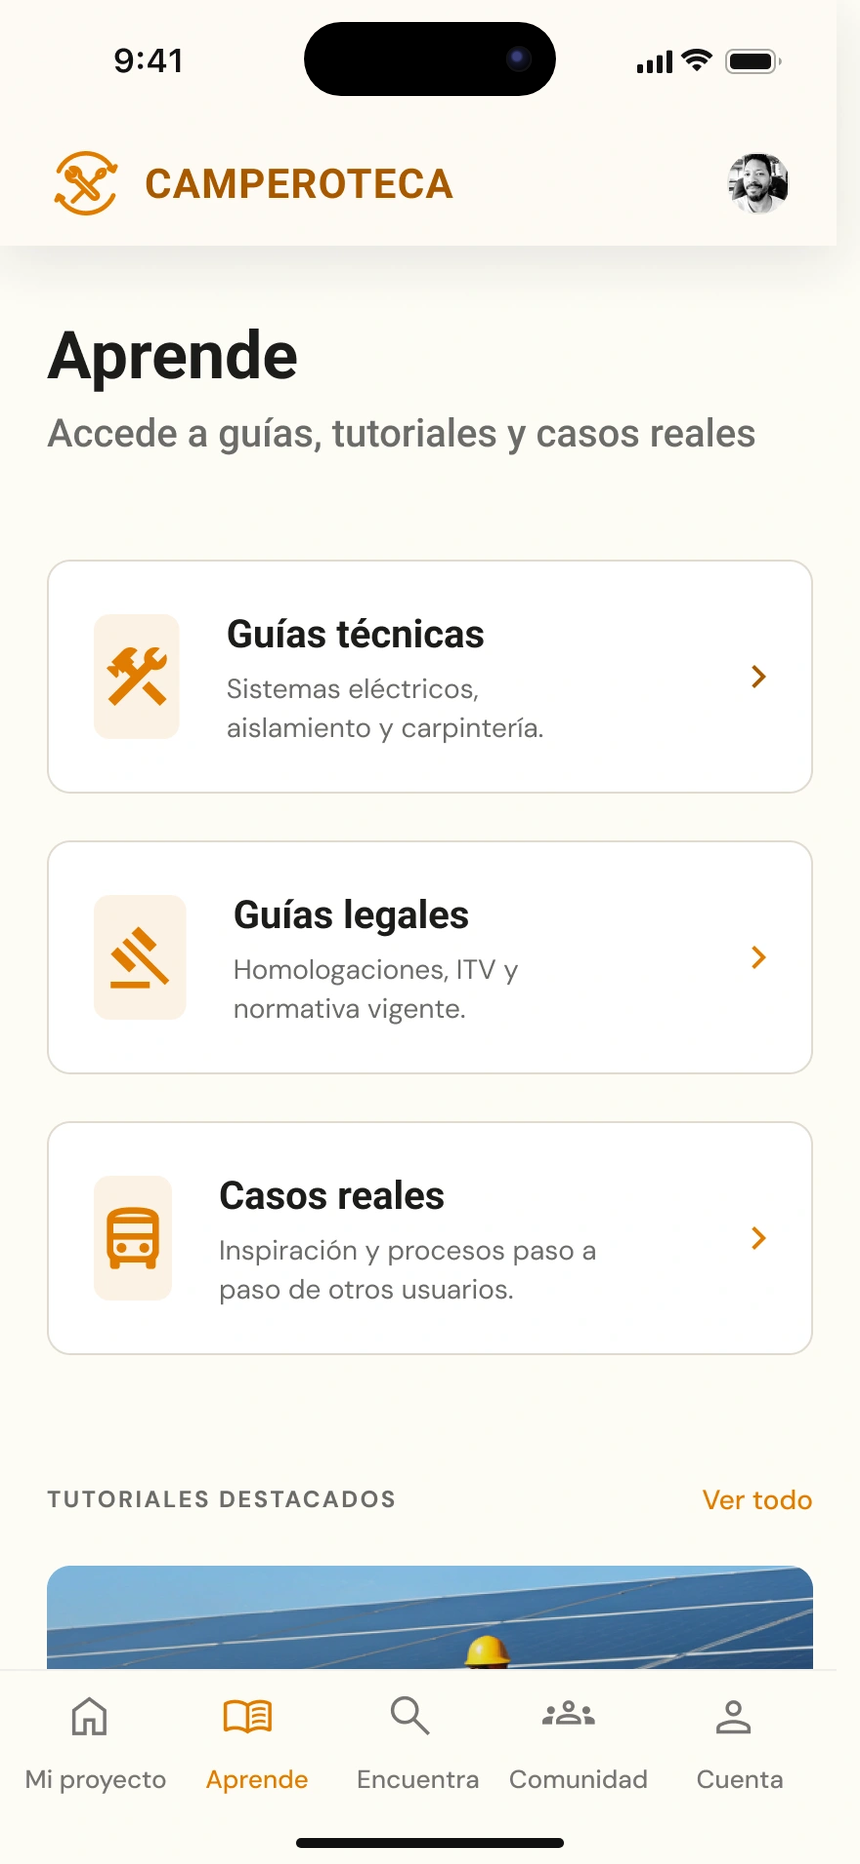
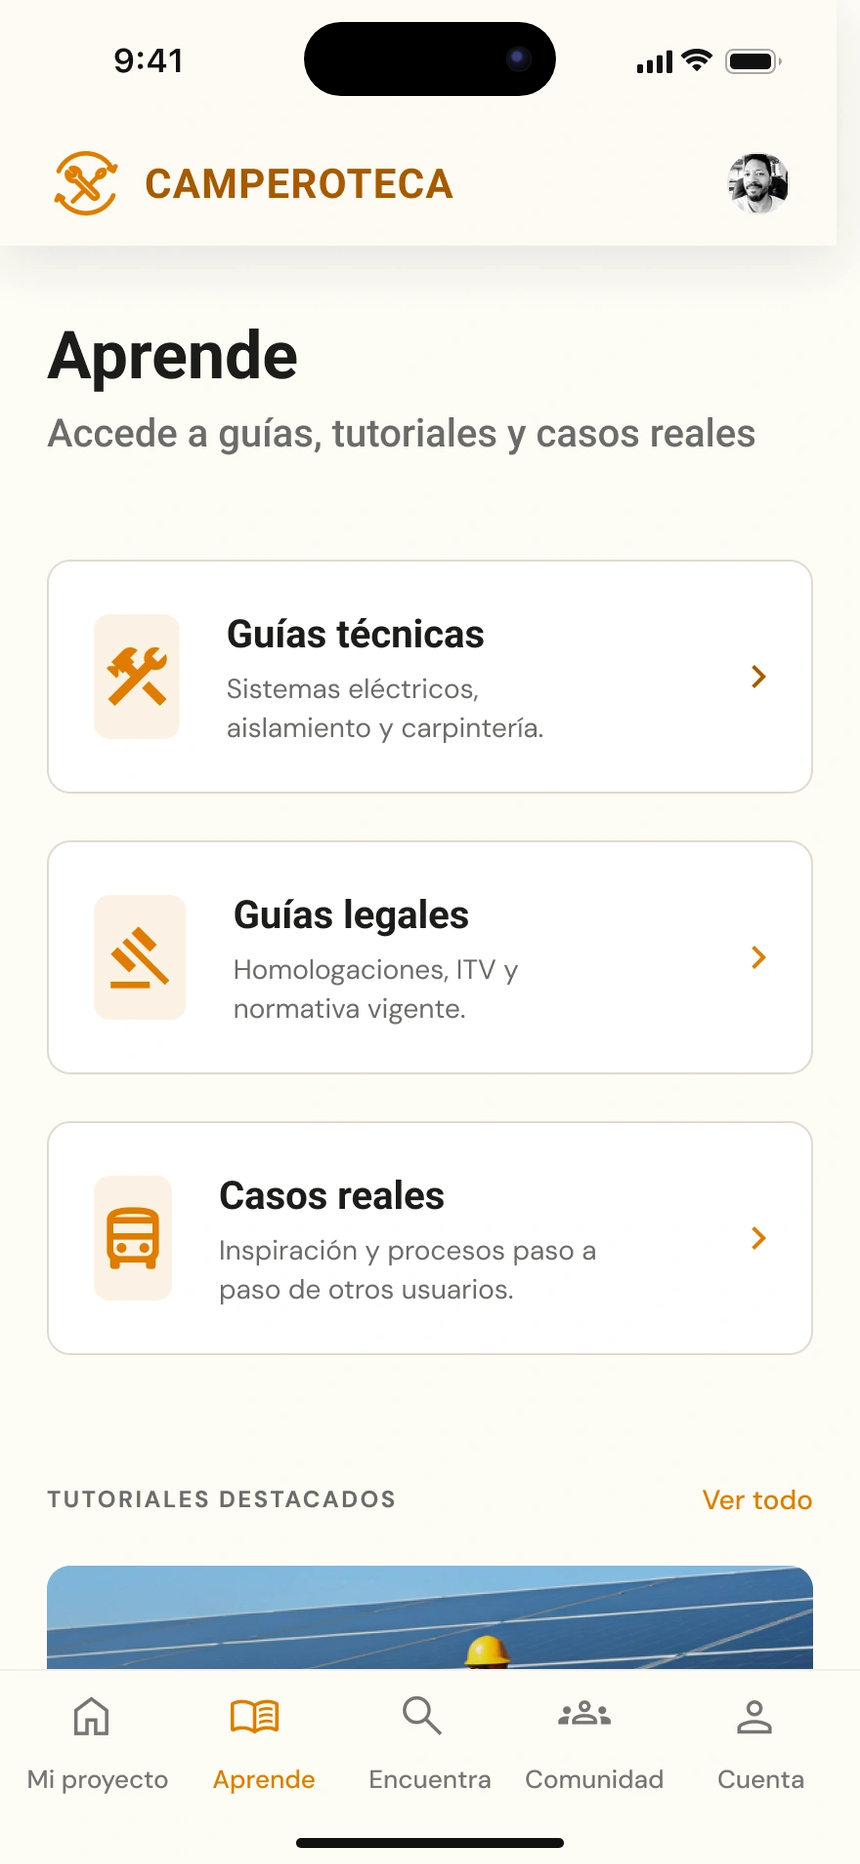
Camperoteca: corrige alineación de CTAs y nav bar; happy path ajustado al ancho de contenido (#31)
- Mi proyecto: botones centrados en la tarjeta; nav bar a ancho completo (pantallas UI, portada y wireframe de alta fidelidad)
- Happy path dentro de la columna de contenido, con tarjetas más altas

Claude-Session: https://claude.ai/code/session_01BVwbc6KKsV18LtJHByUVY1

diff --git a/app/[lang]/work/camperoteca/page.tsx b/app/[lang]/work/camperoteca/page.tsx
@@ -1145,17 +1145,12 @@ export default async function CamperotecaPage({ params }: Props) {
         </Reveal>
 
         <Reveal delay={0.1}>
-          <div style={{
-            borderRadius: "10px", overflow: "hidden", marginBottom: "3rem",
-            width: "min(1100px, 100vw - 3rem)",
-            marginLeft: "50%",
-            transform: "translateX(-50%)",
-          }}>
+          <div style={{ borderRadius: "12px", overflow: "hidden", marginBottom: "3rem" }}>
             <ZoomableImage
               src="/assets/camperoteca/happy-path.png"
               alt="Secuencia de navegación: Home, Onboarding, Login o Registro, Mi Proyecto, Aprende, Encuentra, Comunidad"
-              width={1400}
-              height={400}
+              width={1100}
+              height={440}
               style={{ width: "100%", height: "auto", display: "block" }}
               hint={C.zoom_hint}
               closeLabel={C.zoom_close}
